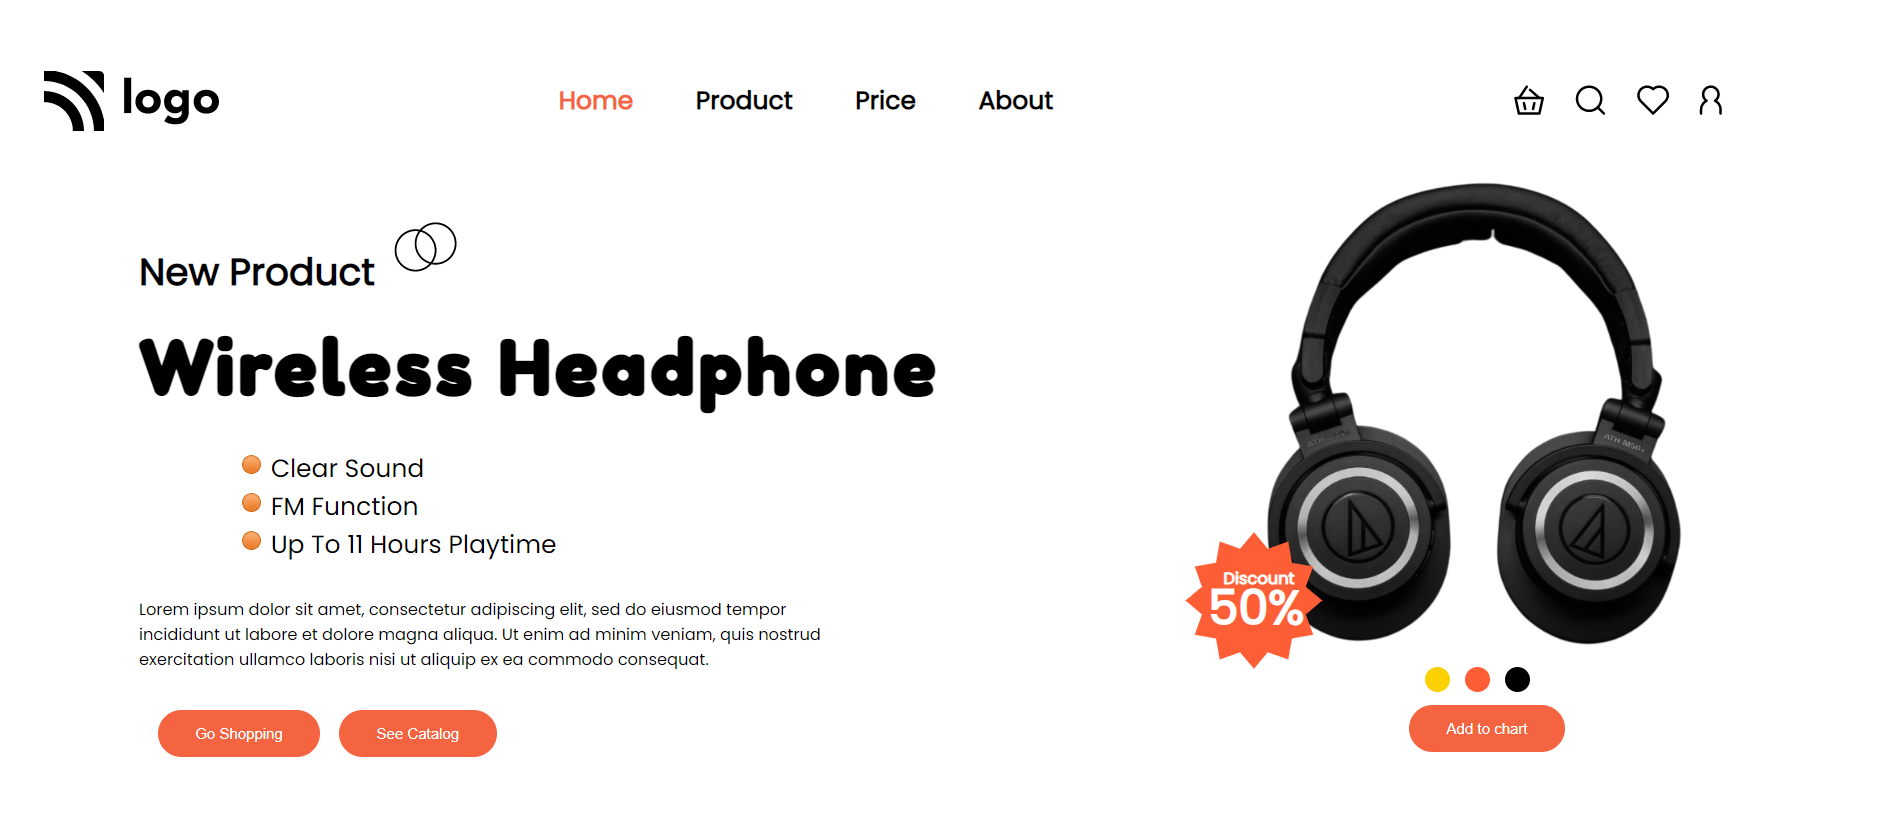
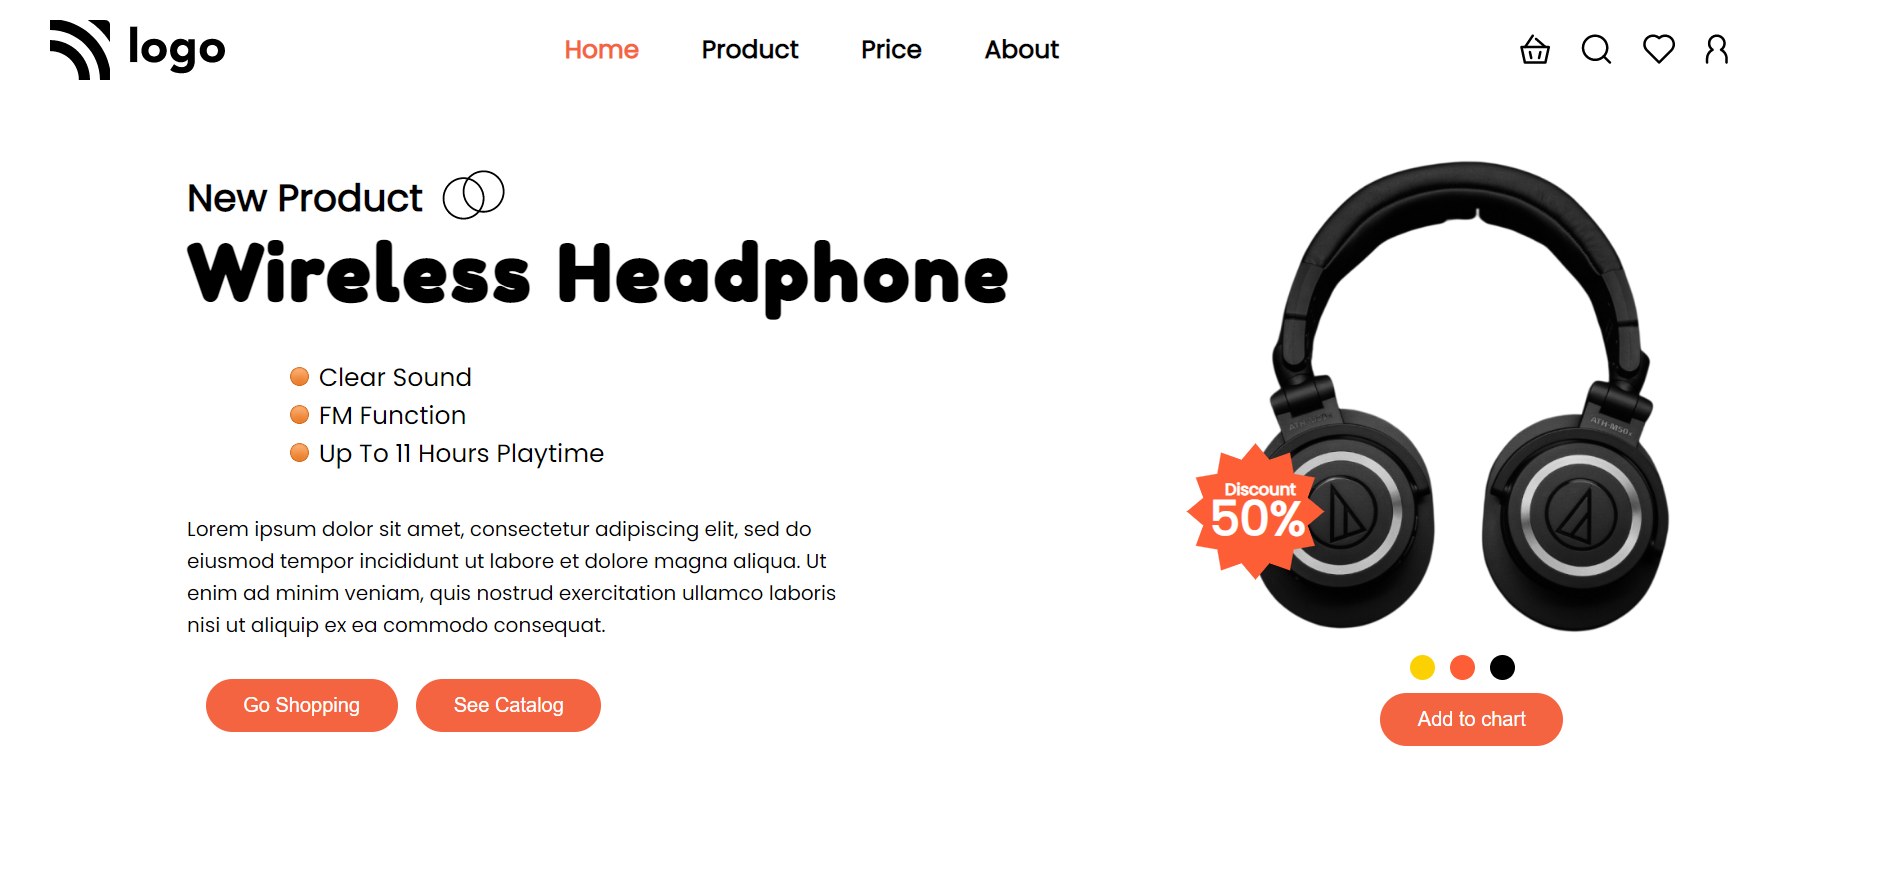
MEdia Queries and REEADME changes

diff --git a/README.md b/README.md
@@ -2,7 +2,7 @@
 
 ![Created By Sayantan Bera](https://img.shields.io/badge/Created%20By-Sayantan%20Bera-blue)
 
-## **Project-7** [Live Link](https://plant-landing-page-sayantan.netlify.app/)
+## **Project-7** [Live Link](https://product-landing-page-sayantan.netlify.app/)
 
 ### Website Image
 
@@ -16,4 +16,4 @@
 
 - I Learned about flexbox.
 
-## This project took around 4.5 hours to complete.
+## This project took around 4.5 hours to complete and 2.5 hours to responsive.
